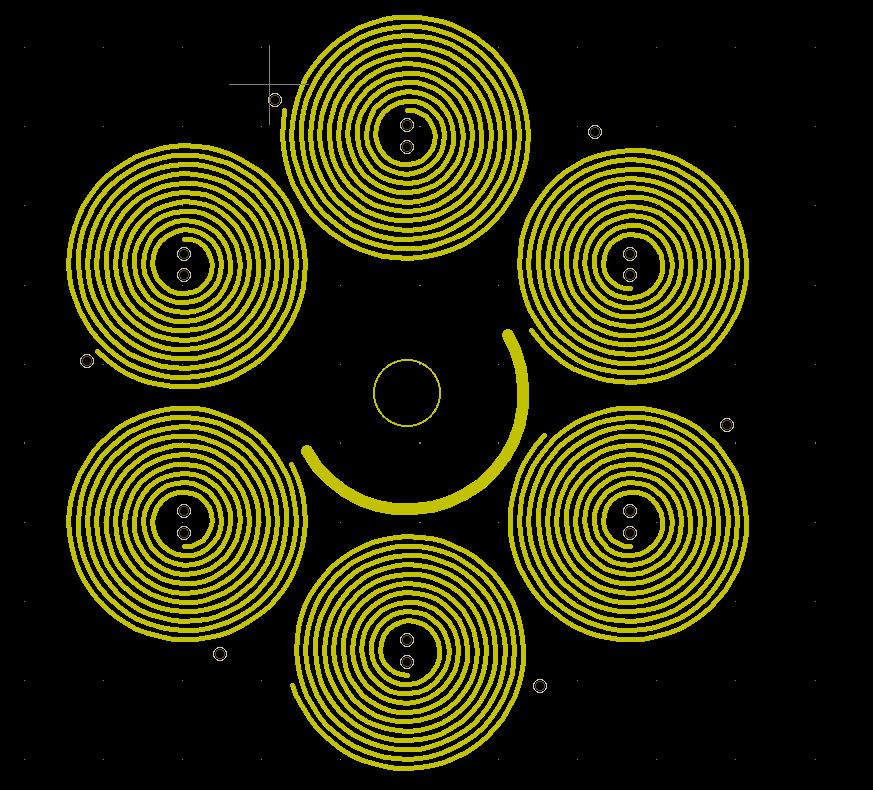
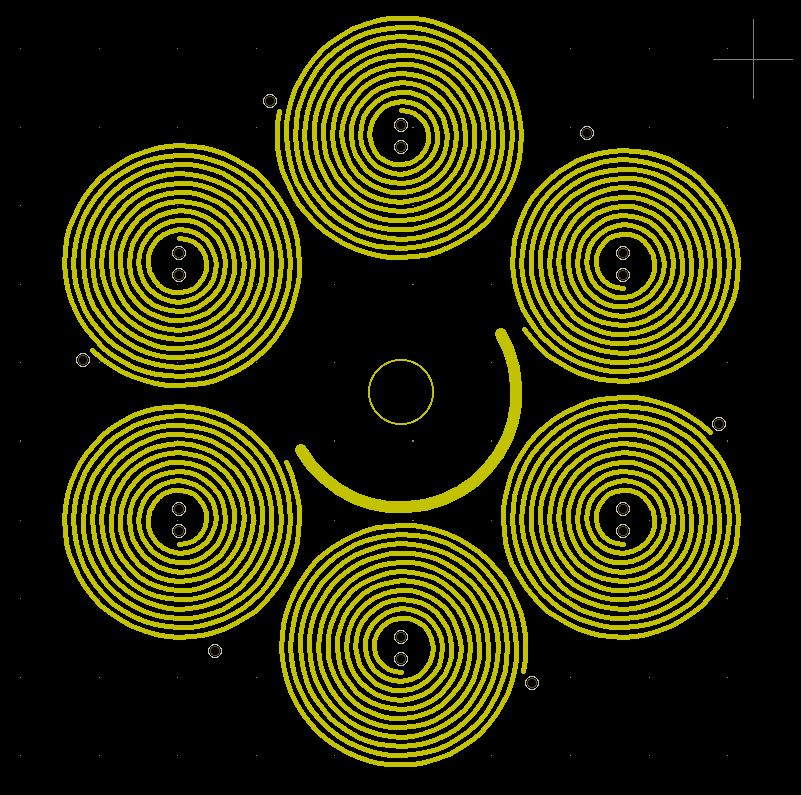
fixed error with connect

diff --git a/spiral.py b/spiral.py
@@ -152,13 +152,13 @@ def four_layer_coil(center, top_angle, connect_angle, bottom_angle, rotation,
     # layer 1
     spiral_dct['start_angle'] = 180
     spiral_dct['rotation'] = -1*rotation
-    spiral_dct['final_angle'] = connect_angle
+    spiral_dct['final_angle'] = (connect_angle*rotation+360)%360
     track_dct['layer'] = layer_stack[1]
     res += archimidean_spiral(**spiral_dct, track_dct=track_dct)
     # layer 2
     spiral_dct['start_angle'] = 0
     spiral_dct['rotation'] = 1*rotation
-    spiral_dct['final_angle'] = (180-connect_angle+360)%360
+    spiral_dct['final_angle'] = (180-connect_angle*rotation+360)%360
     track_dct['layer'] = layer_stack[2]
     res += archimidean_spiral(**spiral_dct, track_dct=track_dct)
     # layer 3
@@ -219,8 +219,8 @@ def pcb_motor(position, axis_radius, spiral_dct, track_dct, coil_dct):
             coil_dct['bottom_angle'] = (np.degrees(-angle_included)*(2+pole)+360)%360
             coil_dct['rotation'] = -1
         coil_dct['center'] = coil_center
-        coil_dct['layer_stack'] = stacks[pole]
         coil_dct['connect_angle'] = (45+np.degrees(angle_included)*pole + 360)%360
+        coil_dct['layer_stack'] = stacks[pole]
         str_data += four_layer_coil(**coil_dct, spiral_dct=spiral_dct, track_dct=track_dct)
 
     # center hole for slide bearing

diff --git a/readme.md b/readme.md
@@ -43,7 +43,7 @@ This drags the rotor over the stator.
 
 ## Results
 
-Script creates a 4 layer PCB motor with 6 poles. 
+Script creates a 4 layer PCB motor with 6 poles.
 The front copper layer is shown below,  
 ![toplayer](./images/toplayer.jpg)  
 The In1.Cu layer is shown below. The style of these connections is named "Carl Bugeja" styled PCBs.  
